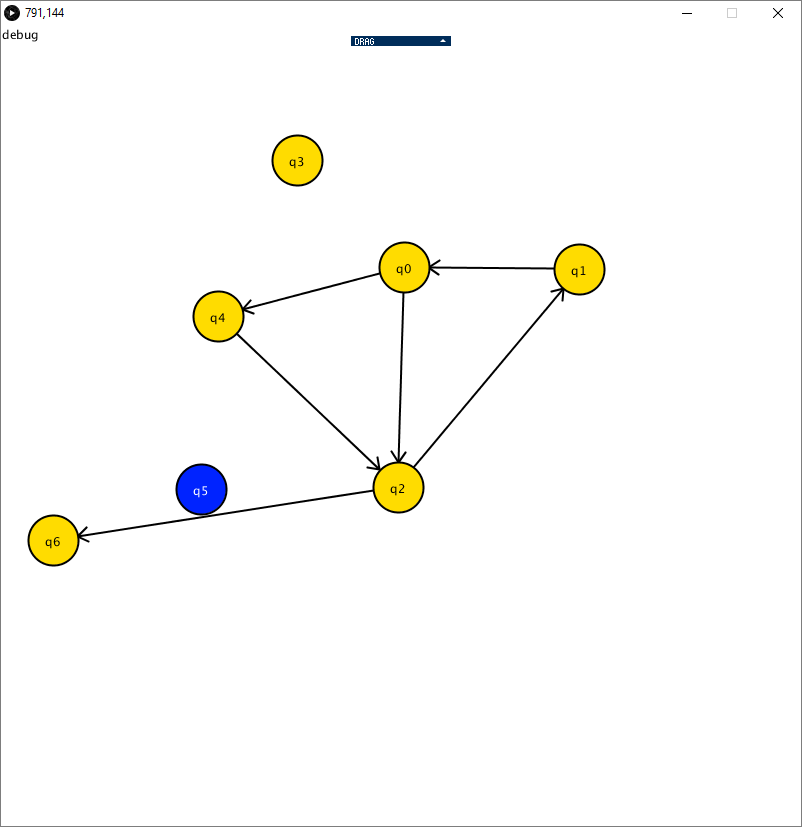
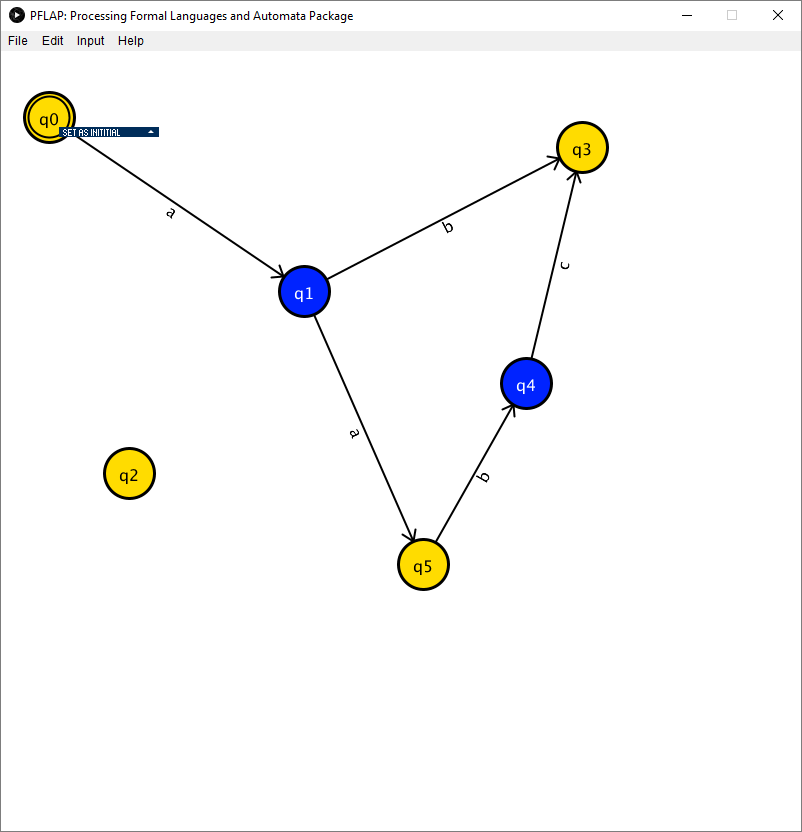
Menubar. Multi-Move states.

diff --git a/src/main/PFLAP.java b/src/main/PFLAP.java
@@ -1,7 +1,19 @@
 package main;
 
+import java.awt.MenuBar;
+import java.awt.MenuItem;
+import java.awt.event.ActionEvent;
+import java.awt.event.ActionListener;
+import java.awt.FileDialog;
+import java.awt.Frame;
+import java.awt.Menu;
+
+import java.lang.reflect.Field;
+
 import java.util.ArrayList;
 import java.util.HashSet;
+
+import javax.swing.JOptionPane;
 
 import processing.core.PApplet;
 import processing.core.PVector;
@@ -9,10 +21,10 @@ import processing.event.KeyEvent;
 import processing.event.MouseEvent;
 
 import controlP5.ControlP5;
-import controlP5.Textfield;
 import p5.Arrow;
 import p5.SelectionBox;
 import p5.State;
+import processing.awt.*;
 
 public class PFLAP extends PApplet {
 
@@ -24,7 +36,6 @@ public class PFLAP extends PApplet {
 	public static HashSet<State> selected = new HashSet<>();
 
 	public static ControlP5 cp5;
-	private static Textfield consumable; // TODO User text entry
 
 	public static State initialState = null;
 	private static State mouseOverState, arrowTailState, arrowHeadState, dragState;
@@ -43,25 +54,26 @@ public class PFLAP extends PApplet {
 	public void setup() {
 		State.p = this; // Static PApplet for State objects
 		Arrow.p = this; // Static PApplet for Arrow objects
-		surface.setTitle("JFLAP ~ micycle");
+		surface.setTitle("PFLAP: Processing Formal Languages and Automata Package");
 		surface.setLocation(displayWidth / 2 - width / 2, displayHeight / 2 - height / 2);
 		surface.setResizable(false);
 		frameRate(60);
 		strokeJoin(MITER);
 		strokeWeight(3);
 		stroke(0);
-		textSize(16);
+		textSize(Consts.stateFontSize);
 		textAlign(CENTER, CENTER);
 		rectMode(CORNER);
 		ellipseMode(CENTER);
 		cursor(ARROW);
 		initCp5();
+		initMenuBar();
 	}
 
 	@Override
 	public void settings() {
 		size(Consts.WIDTH, Consts.HEIGHT);
-		smooth(4);
+		smooth(8);
 	}
 
 	@Override
@@ -90,7 +102,13 @@ public class PFLAP extends PApplet {
 		for (Arrow a : arrows) {
 			a.draw();
 		}
-
+		
+		if (mouseDown.contains(CENTER)) {
+			PVector offset = new PVector(mouseX - mouseClickXY.x, mouseY - mouseClickXY.y);
+			for (State s : selected) {
+				s.setPosition(new PVector(offset.x + s.getSelectedPosition().x, offset.y + s.getSelectedPosition().y));
+			}
+		}
 		for (State s : nodes) {
 			s.draw();
 		}
@@ -98,6 +116,144 @@ public class PFLAP extends PApplet {
 			dragState.setPosition(mouseCoords);
 			dragState.draw();
 		}
+
+	}
+
+	private void initMenuBar() {
+		// Declarations
+		Frame f = get_frame();
+		MenuBar menuBar = new MenuBar();
+		MenuItem fileMenuItem0, fileMenuItem1, fileMenuItem2, editMenuItem0, inputMenuItem0, helpMenuItem0,
+				helpMenuItem1;
+
+		// Top-Level Menus
+		Menu fileMenu = new Menu("File");
+		Menu editMenu = new Menu("Edit");
+		Menu inputMenu = new Menu("Input");
+		Menu helpMenu = new Menu("Help");
+
+		// File Menu
+		fileMenuItem0 = new MenuItem("Exit");
+		fileMenuItem1 = new MenuItem("Open");
+		fileMenuItem2 = new MenuItem("Save");
+
+		// Edit Menu
+		editMenuItem0 = new MenuItem("Delete All States");
+
+		// Input Menu
+		inputMenuItem0 = new MenuItem("Step By State");
+
+		// Help Menu
+		helpMenuItem0 = new MenuItem("Help");
+		helpMenuItem1 = new MenuItem("About PFLAP");
+
+		// Add file items to file menu
+		fileMenu.add(fileMenuItem0);
+		fileMenu.add(fileMenuItem1);
+		fileMenu.add(fileMenuItem2);
+
+		// Add edit items to edit menu
+		editMenu.add(editMenuItem0);
+
+		// Add input items to input menu
+		inputMenu.add(inputMenuItem0);
+
+		// Add help items to help menu
+		helpMenu.add(helpMenuItem0);
+		helpMenu.add(helpMenuItem1);
+
+		// Menu Action Listeners
+		ActionListener fileMenuListener, editMenuListener, inputMenuListener, helpMenuListener;
+
+		fileMenuListener = new ActionListener() {
+			@Override
+			public void actionPerformed(ActionEvent event) {
+				switch (event.getActionCommand()) {
+					case "Exit" :
+						exit();
+						break;
+					case "Open" :
+						// FileDialog fg = new FileDialog(frame, "Open a file");
+						// fg.setVisible(true);
+						// String file = fg.getDirectory() + fg.getFile();
+						break;
+					default :
+						break;
+				}
+
+			}
+		};
+
+		editMenuListener = new ActionListener() {
+			@Override
+			public void actionPerformed(ActionEvent event) {
+				switch (event.getActionCommand()) {
+					case "Delete All States" :
+						for (State s : nodes) {
+							deleteState(s);
+						}
+						break;
+
+					default :
+						break;
+				}
+			}
+		};
+
+		inputMenuListener = new ActionListener() {
+			@Override
+			public void actionPerformed(ActionEvent event) {
+				switch (event.getActionCommand()) {
+					case "Step By State" :
+						String userInput = JOptionPane.showInputDialog("DFA Input: ");
+						break;
+					default :
+						break;
+				}
+			}
+		};
+
+		helpMenuListener = new ActionListener() {
+			@Override
+			public void actionPerformed(ActionEvent event) {
+				switch (event.getActionCommand()) {
+					case "About PFLAP" :
+						JOptionPane.showMessageDialog(frame, Consts.about);
+						break;
+					case "Help" :
+						JOptionPane.showMessageDialog(frame, Consts.help);
+						break;
+					default :
+						break;
+				}
+			}
+		};
+
+		fileMenu.addActionListener(fileMenuListener);
+		editMenu.addActionListener(editMenuListener);
+		inputMenu.addActionListener(inputMenuListener);
+		helpMenu.addActionListener(helpMenuListener);
+
+		// Adding menus to the menu bar
+		menuBar.add(fileMenu);
+		menuBar.add(editMenu);
+		menuBar.add(inputMenu);
+		menuBar.add(helpMenu);
+
+		// Adding menubar to frame
+		f.setMenuBar(menuBar);
+	}
+
+	private Frame get_frame() {
+		Frame frame = null;
+		try {
+			Field f = ((PSurfaceAWT) surface).getClass().getDeclaredField("frame");
+			f.setAccessible(true);
+			frame = (Frame) (f.get(((PSurfaceAWT) surface)));
+		} catch (Exception e) {
+			println(e);
+		}
+		return frame;
 	}
 
 	private void initCp5() {
@@ -214,13 +370,15 @@ public class PFLAP extends PApplet {
 		if (cp5.isMouseOver()) {
 			return;
 		}
+		
+
 
 		if (selectionBox != null) {
 			selected.forEach(s -> s.deselect());
 			selected.clear();
 			for (State s : nodes) {
 				if (withinSelection(s)) {
-					s.selected = true;
+					s.select();
 					selected.add(s);
 				}
 			}
@@ -229,6 +387,8 @@ public class PFLAP extends PApplet {
 
 		switch (m.getButton()) {
 			case LEFT :
+				selected.forEach(s -> s.deselect());
+				selected.clear();
 				nodeMouseOver();
 				if (dragState != null) {
 					selected.remove(dragState);
@@ -256,13 +416,16 @@ public class PFLAP extends PApplet {
 					}
 				} else {
 					drawingArrow = null;
-					// nodeMouseOver();
 					if (mouseOverState != null) {
 						selected.add(mouseOverState);
 						mouseOverState.select();
 						mouseOverState.showUI();
 					}
 				}
+				break;
+
+			case CENTER :
+				selected.forEach(s -> s.select());
 				break;
 
 			default :

diff --git a/src/main/Consts.java b/src/main/Consts.java
@@ -1,11 +1,28 @@
 package main;
 
 public final class Consts {
-	
-	public static final int stateRadius = 50;
-	public static final int WIDTH = 800;
-	public static final int HEIGHT = 800;
-	public static final int SBNodeRadius = 5;
-	public static final boolean arrowLabelTextRotate = true; //TODO
-	
+
+	public static final int stateRadius = 50, WIDTH = 800, HEIGHT = 800, SBNodeRadius = 5, stateFontSize = 16;
+
+	public static final boolean arrowLabelTextRotate = true; // TODO
+
+	// @formatter:off
+	public static final String about = "PFLAP: Processing Formal Languages and Automata Package.\r\n" + 
+			"A JFLAP alternative using the Processing library as the graphics backend.",
+
+			help = "Mouse:\r\n" + 
+					"\r\n" + 
+					"Left-Click (press): Add New State / Select State.\r\n" + 
+					"Left-Click (hold & drag): Move State.\r\n" + 
+					"Right-Click (press): Open State options menu.\r\n" + 
+					"Right-Click (start on state & drag): Add new transition.\r\n" + 
+					"Right-Click (start on empty region & drag): Selection Box.\r\n" +
+					"Middle-Mouse (Drag): Move all selected states.\r\n" +
+					"\r\n" + 
+					"Keyboard:\r\n" + 
+					"\r\n" + 
+					"DEL: Delete Selected States.\r\n" + 
+					"ESC: Exit Program.\r\n";
+	// @formatter:on
+
 }

diff --git a/src/p5/State.java b/src/p5/State.java
@@ -28,7 +28,7 @@ public class State {
 	private ArrayList<Arrow> arrowTails = new ArrayList<>(); // TODO tailing
 																// touching this
 																// state
-	public boolean selected = false, finalState = false; // TODO (deletion)
+	private boolean selected = false, finalState = false; // TODO (deletion)
 
 	// [transition symbol, next node, current string]
 
@@ -127,6 +127,10 @@ public class State {
 
 	public PVector getPosition() {
 		return position;
+	}
+	
+	public PVector getSelectedPosition() {
+		return selectedPosition;
 	}
 
 	public void addArrowHead(Arrow a) {

diff --git a/src/p5/Arrow.java b/src/p5/Arrow.java
@@ -87,8 +87,8 @@ public class Arrow {
 
 		p.translate(headXY.x, headXY.y);
 		p.rotate(rotationOffset);
-		//p.text(transitionSymbol, -PApplet.dist(tailXY.x, tailXY.y, headXY.x, headXY.y)/2, 7);
-		p.text(rotationOffset, -PApplet.dist(tailXY.x, tailXY.y, headXY.x, headXY.y)/2, 7);
+		p.text(transitionSymbol, -PApplet.dist(tailXY.x, tailXY.y, headXY.x, headXY.y)/2, 7);
+		//p.text(rotationOffset, -PApplet.dist(tailXY.x, tailXY.y, headXY.x, headXY.y)/2, 7);
 		p.beginShape();
 		p.vertex(-10, -7);
 		p.vertex(0, 0);
